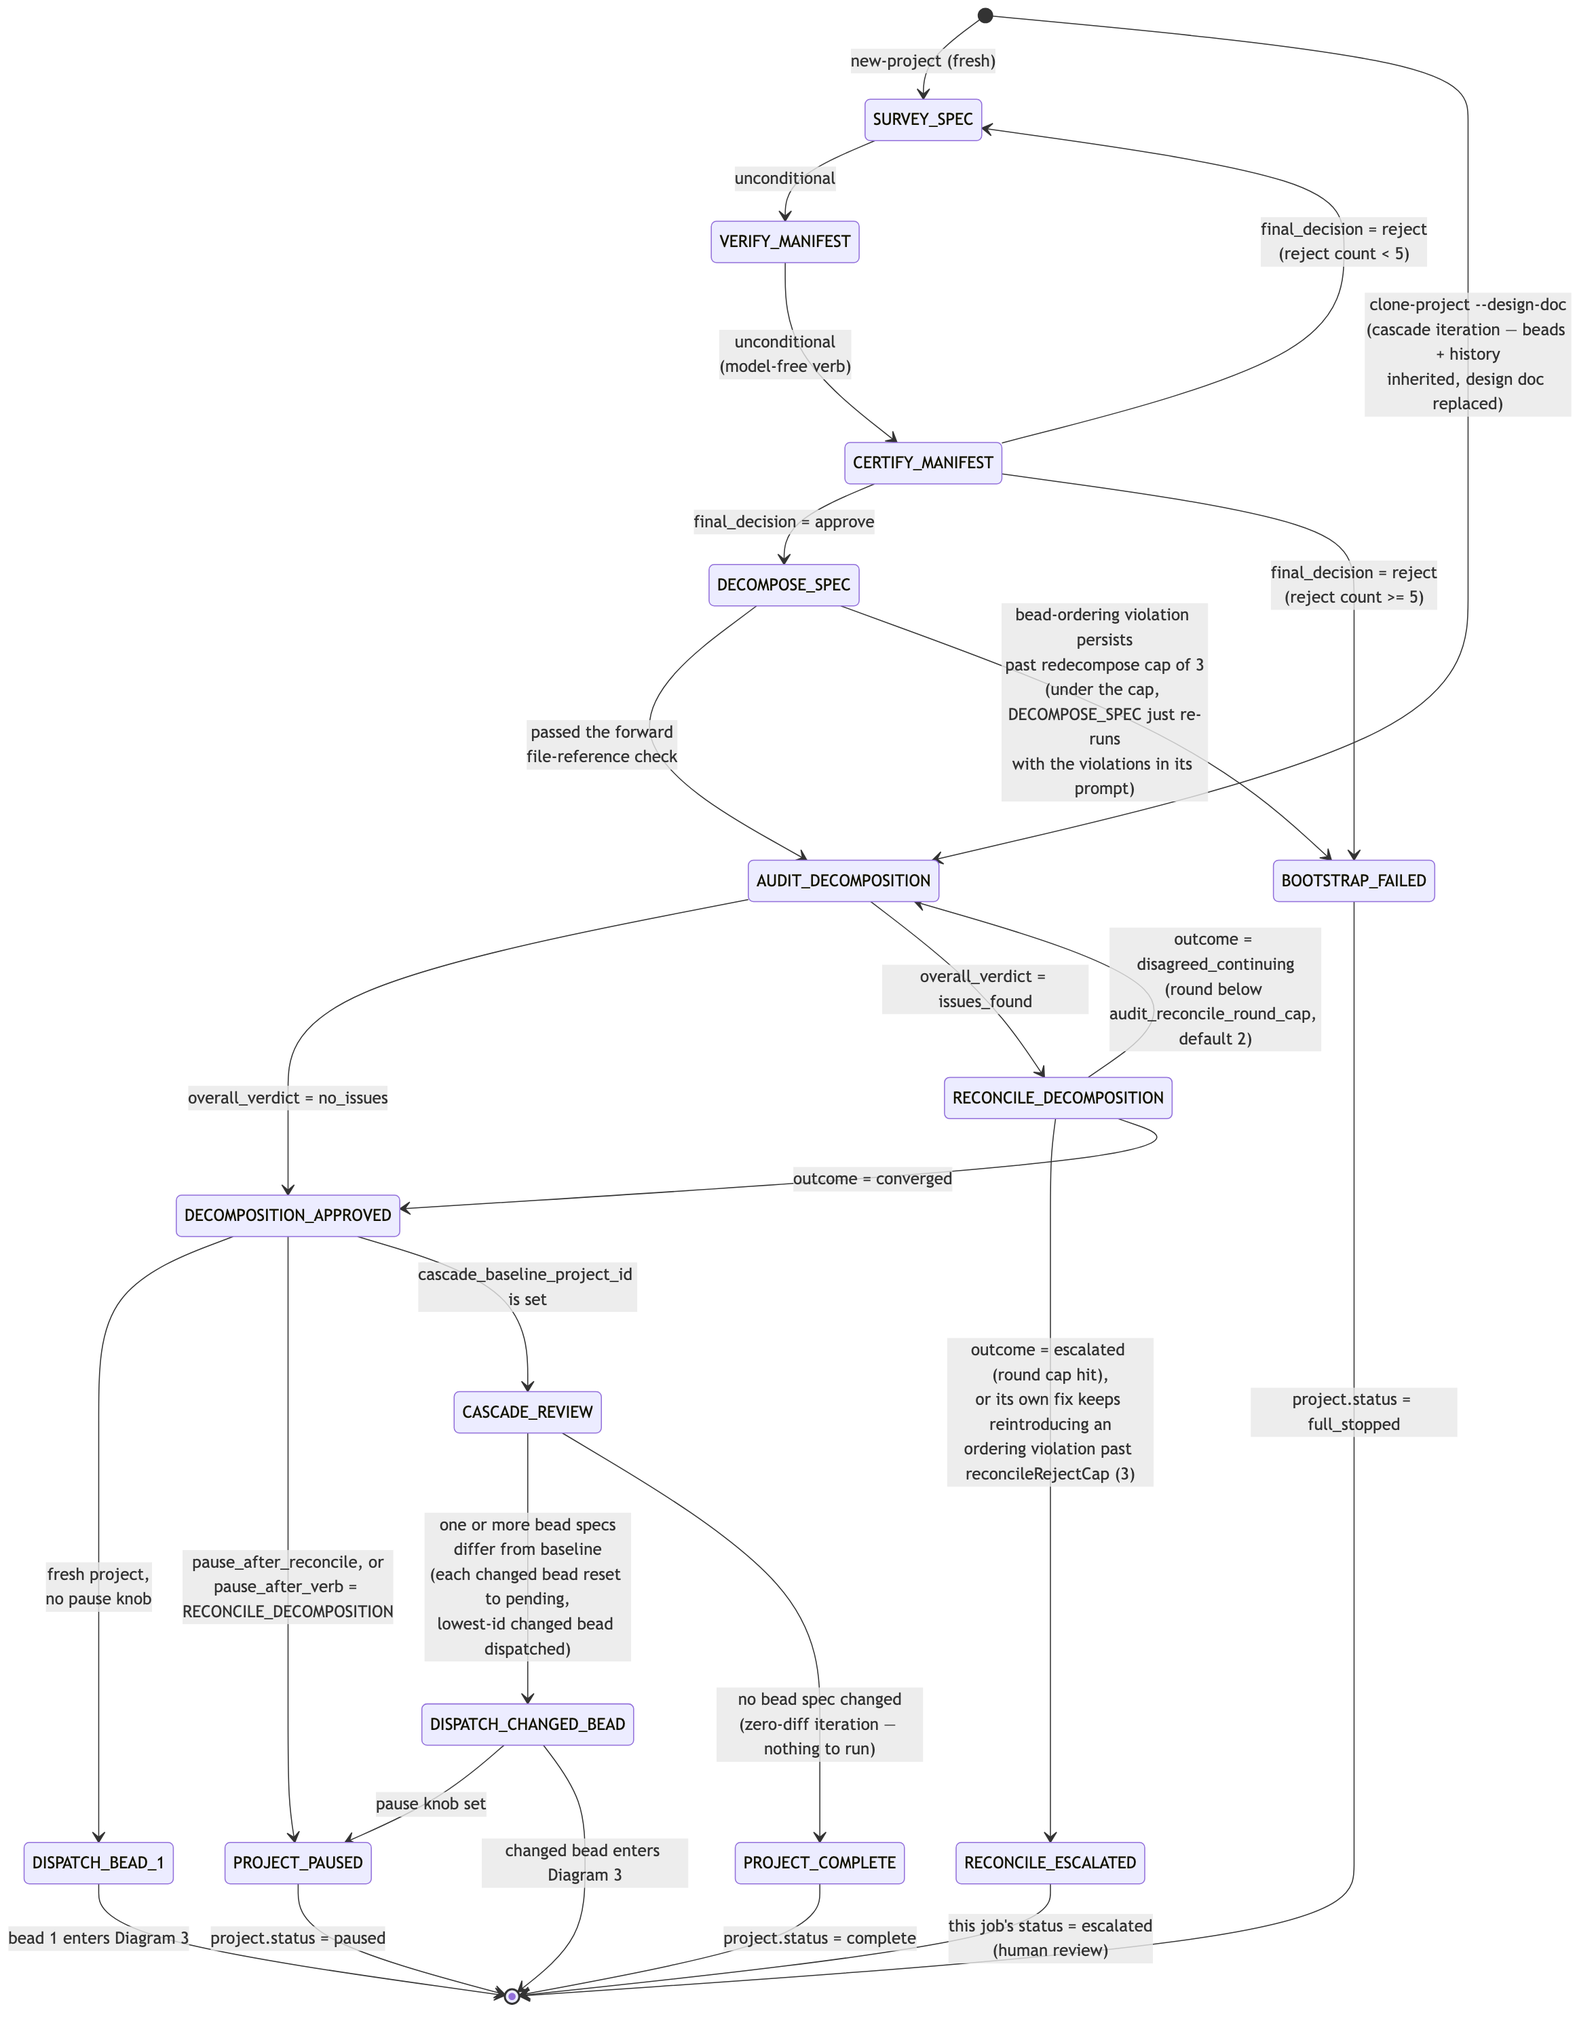
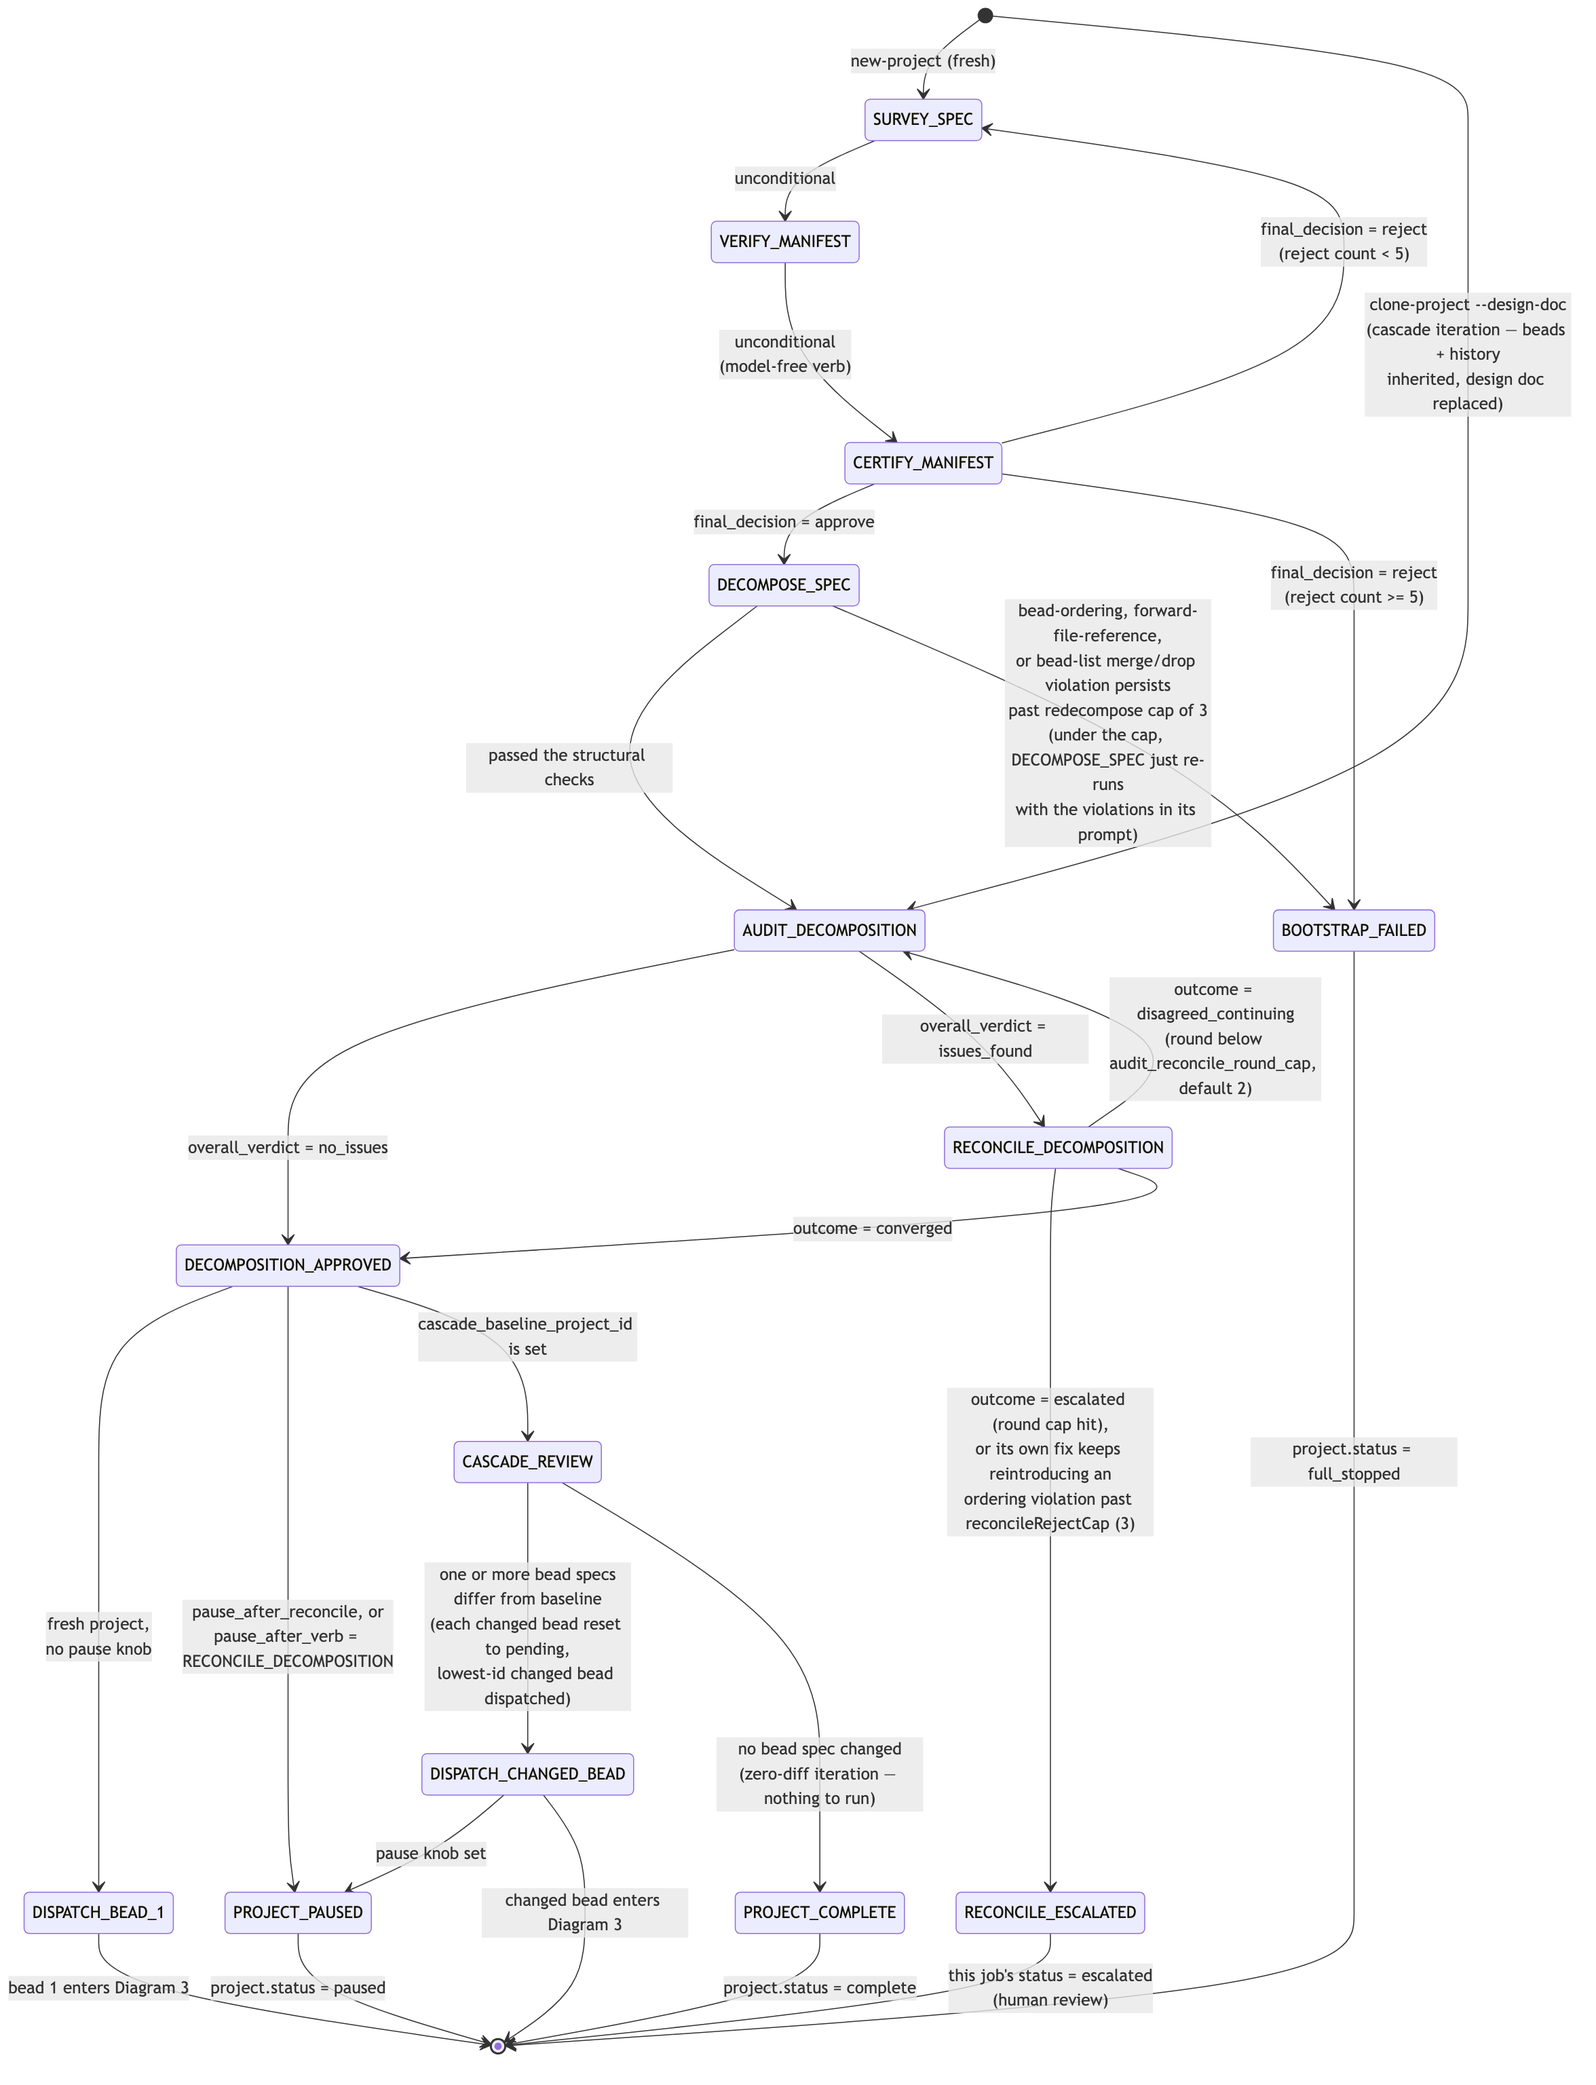
docs(state-machine): audit against post-burn-in EXECUTE changes; regenerate diagrams
The reference doc hadn't been touched since 5f893c8 (2026-09-03); 22 commits
landed on internal/verbs and internal/execution since then. Most were
unrelated to the FSM's shape, but four were real drift:

- The "trailing-timeout budget escalation" section described a mechanism
  (execution_budget doubling 900s->1800s->3600s->7200s on repeated timeouts)
  that no longer exists. It was fully retired (57224fc, on top of 0077893)
  and replaced with fixed timing (execCheckpointInterval=12m,
  execAbsoluteCeiling=45m) decoupled from execution_budget, a progressTracker
  that distinguishes genuine forward progress from a no-op rewrite, and a new
  distinct `stalled` termination_cause alongside `timeout`. The framing
  inverted too: a timeout is now read as a scope signal ("too big"), not a
  speed problem ("needs more time"). Rewrote the section accordingly and
  added `stalled` to Diagram 3's termination_cause list.
- execute_revised's mechanical gate gained a sibling-symbol-ownership check
  (07bf76a) and pin re-injection on every commit (2160833) — added both to
  the gate list.
- declare_success verification moved to an isolated copy of the project
  folder (9a4f4d4, VerifyExitCriteriaIsolated) rather than the live one, to
  stop an entrypoint bead's own build criterion from littering the tree.
- The escalation table was missing two rows entirely: two consecutive
  `stalled` or `timeout` terminations each escalate automatically now
[…]

diff --git a/docs/ratchet_state_machine.md b/docs/ratchet_state_machine.md
@@ -11,7 +11,7 @@ Four diagrams, from outermost to innermost:
 4. **Generic job status** — the low-level `handoff_jobs.status` FSM that every verb call goes through underneath diagrams 2 and 3.
 
 Render with a Mermaid-capable viewer (VS Code preview, GitHub, mermaid.live). The
-`diagrams/*.png` images were last regenerated 2026-09-03 from the Mermaid source
+`diagrams/*.png` images were last regenerated 2026-09-14 from the Mermaid source
 below (extracted block-by-block into `X.mmd`) via
 `npx @mermaid-js/mermaid-cli@11.16.0 -i X.mmd -o X.png -b white -s 3`, and
 `docs/state-machine.pdf` is built from this file with those images inlined
@@ -85,8 +85,8 @@ stateDiagram-v2
     CERTIFY_MANIFEST --> SURVEY_SPEC : final_decision = reject<br/>(reject count < 5)
     CERTIFY_MANIFEST --> BOOTSTRAP_FAILED : final_decision = reject<br/>(reject count >= 5)
 
-    DECOMPOSE_SPEC --> AUDIT_DECOMPOSITION : passed the forward<br/>file-reference check
-    DECOMPOSE_SPEC --> BOOTSTRAP_FAILED : bead-ordering violation persists<br/>past redecompose cap of 3<br/>(under the cap, DECOMPOSE_SPEC just re-runs<br/>with the violations in its prompt)
+    DECOMPOSE_SPEC --> AUDIT_DECOMPOSITION : passed the structural checks
+    DECOMPOSE_SPEC --> BOOTSTRAP_FAILED : bead-ordering, forward-file-reference,<br/>or bead-list merge/drop violation persists<br/>past redecompose cap of 3<br/>(under the cap, DECOMPOSE_SPEC just re-runs<br/>with the violations in its prompt)
 
     AUDIT_DECOMPOSITION --> DECOMPOSITION_APPROVED : overall_verdict = no_issues
     AUDIT_DECOMPOSITION --> RECONCILE_DECOMPOSITION : overall_verdict = issues_found
@@ -115,12 +115,15 @@ stateDiagram-v2
 Notes:
 - `AUDIT_DECOMPOSITION` with `no_issues` skips `RECONCILE_DECOMPOSITION` — reconcile only runs when audit found something to fix.
 - **`redecompose` / `reconcile_rejected` retry loops** (drawn only as their escalation
-  edges above, to keep the diagram readable): a mechanical forward-file-reference /
-  bead-ordering check runs on the proposed decomposition. `DECOMPOSE_SPEC` failing it
-  records a `redecompose` `audit_reconcile_rounds` row and re-enqueues `DECOMPOSE_SPEC`
-  with the violations in its next prompt; at `decomposeRedecomposeCap` (3) the project
-  is `full_stopped`. `RECONCILE_DECOMPOSITION` failing it on its *own* proposed fix
-  records a `reconcile_rejected` row and re-enqueues `RECONCILE_DECOMPOSITION`; at
+  edges above, to keep the diagram readable): a mechanical structural check runs on the
+  proposed decomposition — a forward file-reference, a bead-ordering violation, *or* a
+  proposed bead set that merges or drops a bead the design doc's own numbered list calls
+  for (`beadStructureViolations`; an extra, doc-unrequested integration bead is exempt —
+  splitting is left to the author and the bead-size lint, not gated here). `DECOMPOSE_SPEC`
+  failing it records a `redecompose` `audit_reconcile_rounds` row and re-enqueues
+  `DECOMPOSE_SPEC` with the violations in its next prompt; at `decomposeRedecomposeCap` (3)
+  the project is `full_stopped`. `RECONCILE_DECOMPOSITION` failing it on its *own* proposed
+  fix records a `reconcile_rejected` row and re-enqueues `RECONCILE_DECOMPOSITION`; at
   `reconcileRejectCap` (3) the job is escalated. Neither is a model judgment call.
 
 ## 3. Per-bead pipeline
@@ -146,7 +149,7 @@ stateDiagram-v2
 
         EXECUTE_BEAD --> EXECUTE_BEAD : infra_failure at startup<br/>(retried, cap 3 consecutive)
         EXECUTE_BEAD --> ESCALATED : infra_failure x3 consecutive<br/>(internal/execution/window.go:293)
-        EXECUTE_BEAD --> ANALYZE_EXECUTION : termination_cause recorded<br/>(success / timeout /<br/>monitor_terminated / monitor_force_killed /<br/>no_write)
+        EXECUTE_BEAD --> ANALYZE_EXECUTION : termination_cause recorded<br/>(success / timeout / stalled /<br/>monitor_terminated / monitor_force_killed /<br/>no_write)
 
         ANALYZE_EXECUTION --> COMPRESS_ANALYSIS
         COMPRESS_ANALYSIS --> ADJUDICATE_NEXT_EXECUTION
@@ -174,33 +177,62 @@ stateDiagram-v2
 ![Per-bead pipeline diagram](diagrams/3_bead_pipeline.png)
 
 **Mechanical gates on ADJUDICATE's decisions.** The model's decision is not taken
-on trust — three of them pass through a ground-truth check first:
-- `declare_success` runs `execcheck.VerifyExitCriteria` against the files on
-  disk. If the bead's exit-criteria command doesn't actually pass, the success
-  is rejected: the bead goes back to `pending` for another `EXECUTE_BEAD` (or
-  escalates if already at `max_execution_attempts`)
-  (`adjudicate_next_execution.go`, `declare_success` case).
-- `execute_revised` runs a source-side gate on the proposed spec (orphan `-run`
-  name, grep guard for a file the bead doesn't own, a newly-invented required
-  test function — that last one is `re_refine`'s job). On a violation it
-  **downgrades to `execute_as_is`**: retry against the current unmodified spec
-  rather than commit a broken revision.
+on trust:
+- `declare_success` runs `execcheck.VerifyExitCriteriaIsolated` against a **copy**
+  of the files on disk, not the live project folder — an entrypoint bead's own
+  `go build -o app .` exit criterion was dropping a multi-MB binary into the real
+  tree as a side effect of merely *checking* it (`n=3`, fixed `9a4f4d4`). If the
+  criteria command doesn't actually pass in the copy, the success is rejected: the
+  bead goes back to `pending` for another `EXECUTE_BEAD` (or escalates if already
+  at `max_execution_attempts`) (`adjudicate_next_execution.go`, `declare_success`
+  case).
+- `execute_revised` runs a source-side gate on the proposed spec: an orphan `-run`
+  name, a grep guard for a file the bead doesn't own, a symbol already declared by
+  a *sibling* bead's on-disk scaffold (`cross_bead_symbols.go`, `buildSiblingSymbolOwners`
+  — added after a live incident where a revised spec told the agent to redefine
+  another bead's type in this bead's file), or a newly-invented required test
+  function (that last one is `re_refine`'s job, not `execute_revised`'s). On a
+  violation it **downgrades to `execute_as_is`**: retry against the current
+  unmodified spec rather than commit a broken revision.
+- Every `execute_revised` commit also re-runs `InjectDesignDocPins` against the
+  new `full_text` — a full-text rewrite of a bead's spec is exactly the kind of
+  edit that can silently drop a verbatim Decomposition-Notes pin block, so the
+  pin is mechanically re-appended rather than trusted to survive the rewrite.
 - `applyMechanicalBeadFixes` normalizes the revised spec (e.g. `go test` with no
   test file) the same way DECOMPOSE/RECONCILE do at decomposition time.
 
-**Trailing-timeout budget escalation (fail-fast).** On the **first** in-lineage
-execution that ends `termination_cause = timeout` and every one after, an
-`execute_as_is` / `execute_revised` retry has its `execution_budget`
-**mechanically doubled** (capped at 8× the project default: 900 → 1800 → 3600 →
-7200), regardless of the budget the model returned — a weak model can't be
-relied on to classify a stub-file timeout correctly. ADJUDICATE is also handed a
-"Fast path" note telling it to issue `execute_revised` with `trend = same`,
-`bead_spec_fit = execution_capability_problem`, and to prepend exactly one
-"write a compiling skeleton first" sentence — deliberately *not* a full spec
-rewrite (added prescriptiveness on a timeout retry was found to make the agent
-spiral). `monitor_terminated` is excluded: there, more wall-clock makes things
-worse. `re_refine` is never chosen for a timeout (the tests were never reached).
-See `countTrailingTimeouts` / `enforcedTimeoutBudget` / `timeoutBudgetNote` in
+**Mechanical stall/timeout detection (EXECUTE_BEAD).** Timing is fixed, not
+budget-derived: a soft checkpoint every `execCheckpointInterval` (12m) and a hard
+backstop at `execAbsoluteCeiling` (45m) — `execution_budget` is no longer read for
+timing at all (the column stays in the schema, inert; `execute_revised` still
+floors a stored value at the project default). A `progressTracker` judges a turn
+"productive" only if a `write_file` call leaves an in-scope output file at a
+content hash it hasn't held before this attempt — a no-op rewrite or an
+A→B→A revert doesn't count. Several fast paths can end the attempt as `stalled`
+well before the hard ceiling: an empty-turn streak, three consecutive identical
+tool calls, two consecutive length-cap "thinking with no output" turns, or no
+forward progress since the last soft checkpoint (which first injects one
+graceful-finalize directive and grants one more turn before giving up). If the
+hard ceiling itself fires with genuine progress still happening and no stall
+condition met, the cause is `timeout` instead.
+
+`timeout` and `stalled` get different treatment from ADJUDICATE. A `timeout` is
+read as a **scope** signal, not a speed problem — `timeoutExecutionNote` steers
+`execute_revised` toward narrowing the spec, never toward "try again with more
+room." (The earlier behavior — doubling `execution_budget` on repeated timeouts,
+900s → 1800s → 3600s → 7200s — was retired once checkpoint/ceiling stopped being
+budget-derived: a bigger window bought more thrashing, not more correctness; see
+the EXECUTE-model bakeoff, `project_execute_model_bakeoff`.) A second
+**consecutive** `timeout` escalates automatically (`escalateOnRepeatedTimeout`),
+mirroring a second consecutive `stalled` (`escalateOnRepeatedStall`) — `re_refine`
+is never chosen for either (the tests were never reached). A repeated-stall
+escalation is additionally tagged "EXECUTE-ceiling" in its report when ADJUDICATE
+had already tried two `execute_revised` rewrites first — the bead itself likely
+needs a doc-side split, not another revision. `monitor_terminated` /
+`monitor_force_killed` sit outside all of this: MONITOR_EXECUTION killing the
+process externally is not a timing decision EXECUTE_BEAD made about itself. See
+`countTrailingTimeouts` / `countTrailingStalls` / `escalateOnRepeatedTimeout` /
+`escalateOnRepeatedStall` / `timeoutExecutionNote` / `stalledExecutionNote` in
 `adjudicate_next_execution.go`.
 
 **`MONITOR_EXECUTION` is not in this chain.** It's a parallel watchdog subprocess (`ratchet monitor`, spawned alongside `execute-bead` by `RunExecutionWindow`, `internal/execution/window.go:149`) that polls the trace file, asks its own model FIRE/NO_FIRE, and can SIGTERM/SIGKILL the running `EXECUTE_BEAD` process — which is how `termination_cause` becomes `monitor_terminated` or `monitor_force_killed`. It has no `handoff_jobs` row of its own.
@@ -246,9 +278,11 @@ stateDiagram-v2
 | 5 | `EXECUTE_BEAD` (via execution window) | `infraFailureCap` (3) consecutive startup crashes | job escalated | `internal/execution/window.go:293` |
 | 6 | `ADJUDICATE_NEXT_EXECUTION` | `execute_as_is` / `execute_revised` / `test_reject` / a `declare_success` whose exit-criteria gate failed, at `max_execution_attempts` (`atExecutionCap`) | job escalated | `adjudicate_next_execution.go:~1835` |
 | 7 | `ADJUDICATE_NEXT_EXECUTION` | `re_refine` past `refinementCycleCap` | job escalated | `adjudicate_next_execution.go:~1674` |
-| 8 | any verb (generic) | strikes exceed flat tolerance of 2 on malformed/invalid output | job escalated | `orchestrator/dispatch.go:~113` |
-| 9 | `DECOMPOSE_SPEC` | bead-ordering / forward-file-reference violations persist to `decomposeRedecomposeCap` (3) | project full_stopped | `decompose_spec.go:~264` |
-| 10 | `RECONCILE_DECOMPOSITION` | its own proposed fix keeps reintroducing an ordering violation to `reconcileRejectCap` (3) | job escalated | `reconcile_decomposition.go:~476` |
+| 8 | `ADJUDICATE_NEXT_EXECUTION` | two consecutive `stalled` terminations on the same bead lineage (`execute_as_is`/`execute_revised` only) | job escalated (tagged "EXECUTE-ceiling" if ≥2 prior `execute_revised` rewrites) | `escalateOnRepeatedStall`, `adjudicate_next_execution.go:1978` |
+| 9 | `ADJUDICATE_NEXT_EXECUTION` | two consecutive `timeout` terminations on the same bead lineage | job escalated | `escalateOnRepeatedTimeout`, `adjudicate_next_execution.go:2025` |
+| 10 | any verb (generic) | strikes exceed flat tolerance of 2 on malformed/invalid output | job escalated | `orchestrator/dispatch.go:~113` |
+| 11 | `DECOMPOSE_SPEC` | bead-ordering / forward-file-reference / bead-list merge-or-drop violations persist to `decomposeRedecomposeCap` (3) | project full_stopped | `decompose_spec.go:~264` |
+| 12 | `RECONCILE_DECOMPOSITION` | its own proposed fix keeps reintroducing a violation to `reconcileRejectCap` (3) | job escalated | `reconcile_decomposition.go:~476` |
 
 `rewind-bead` is the sanctioned recovery path for any of the per-bead escalations while the bead hasn't succeeded — it resets to `REFINE_TESTS_WRITE` cycle 1 and stubs impl files, so it always discards whatever implementation exists on disk. `resume-project` only ever re-dispatches bead 1 (or, for a cascade project, re-enters through `enqueueDecompositionApproved`). `full-stop-project` is the manual equivalent of a project-wide escalation.
 
